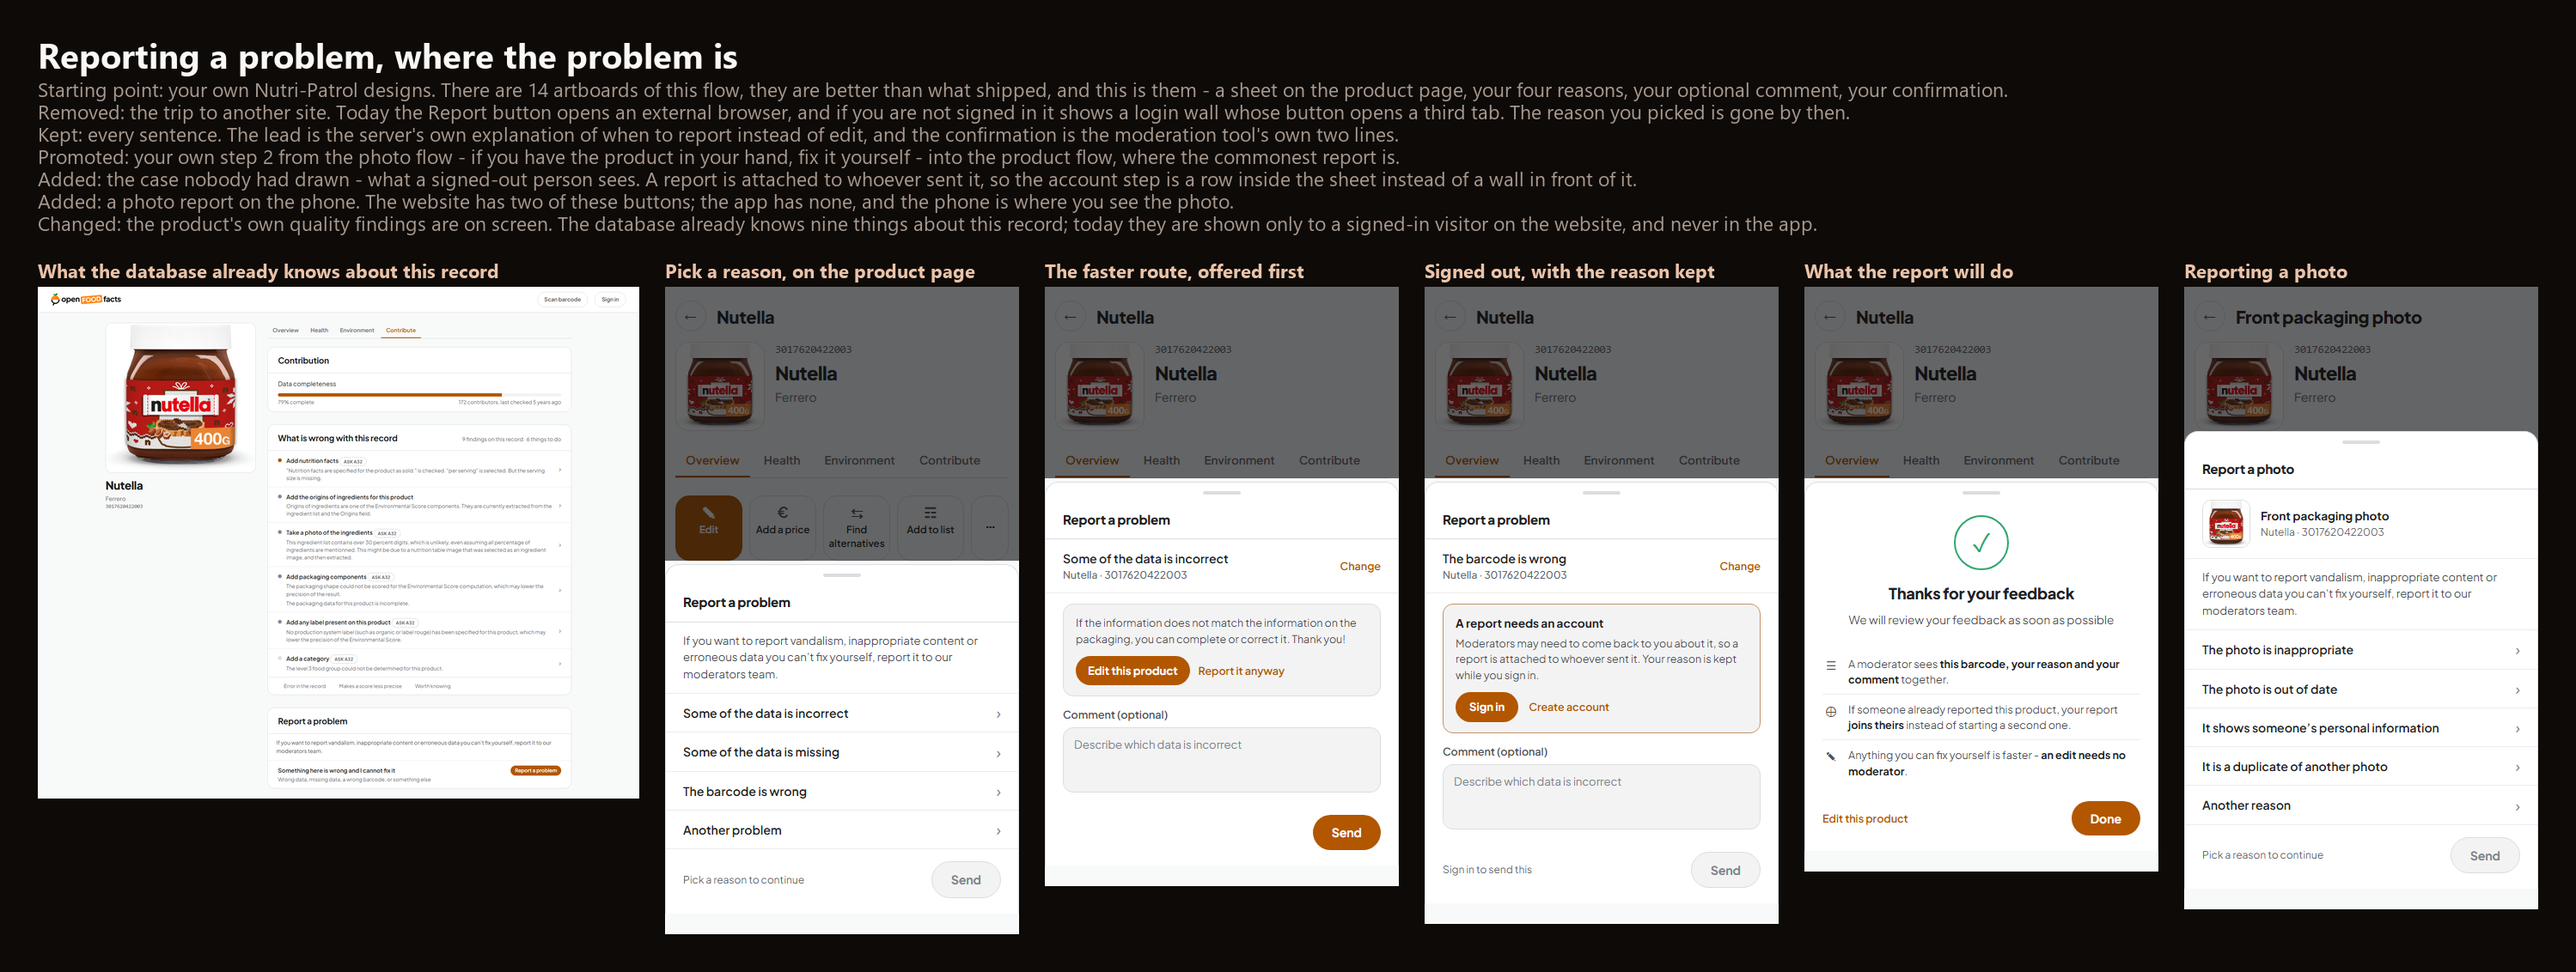
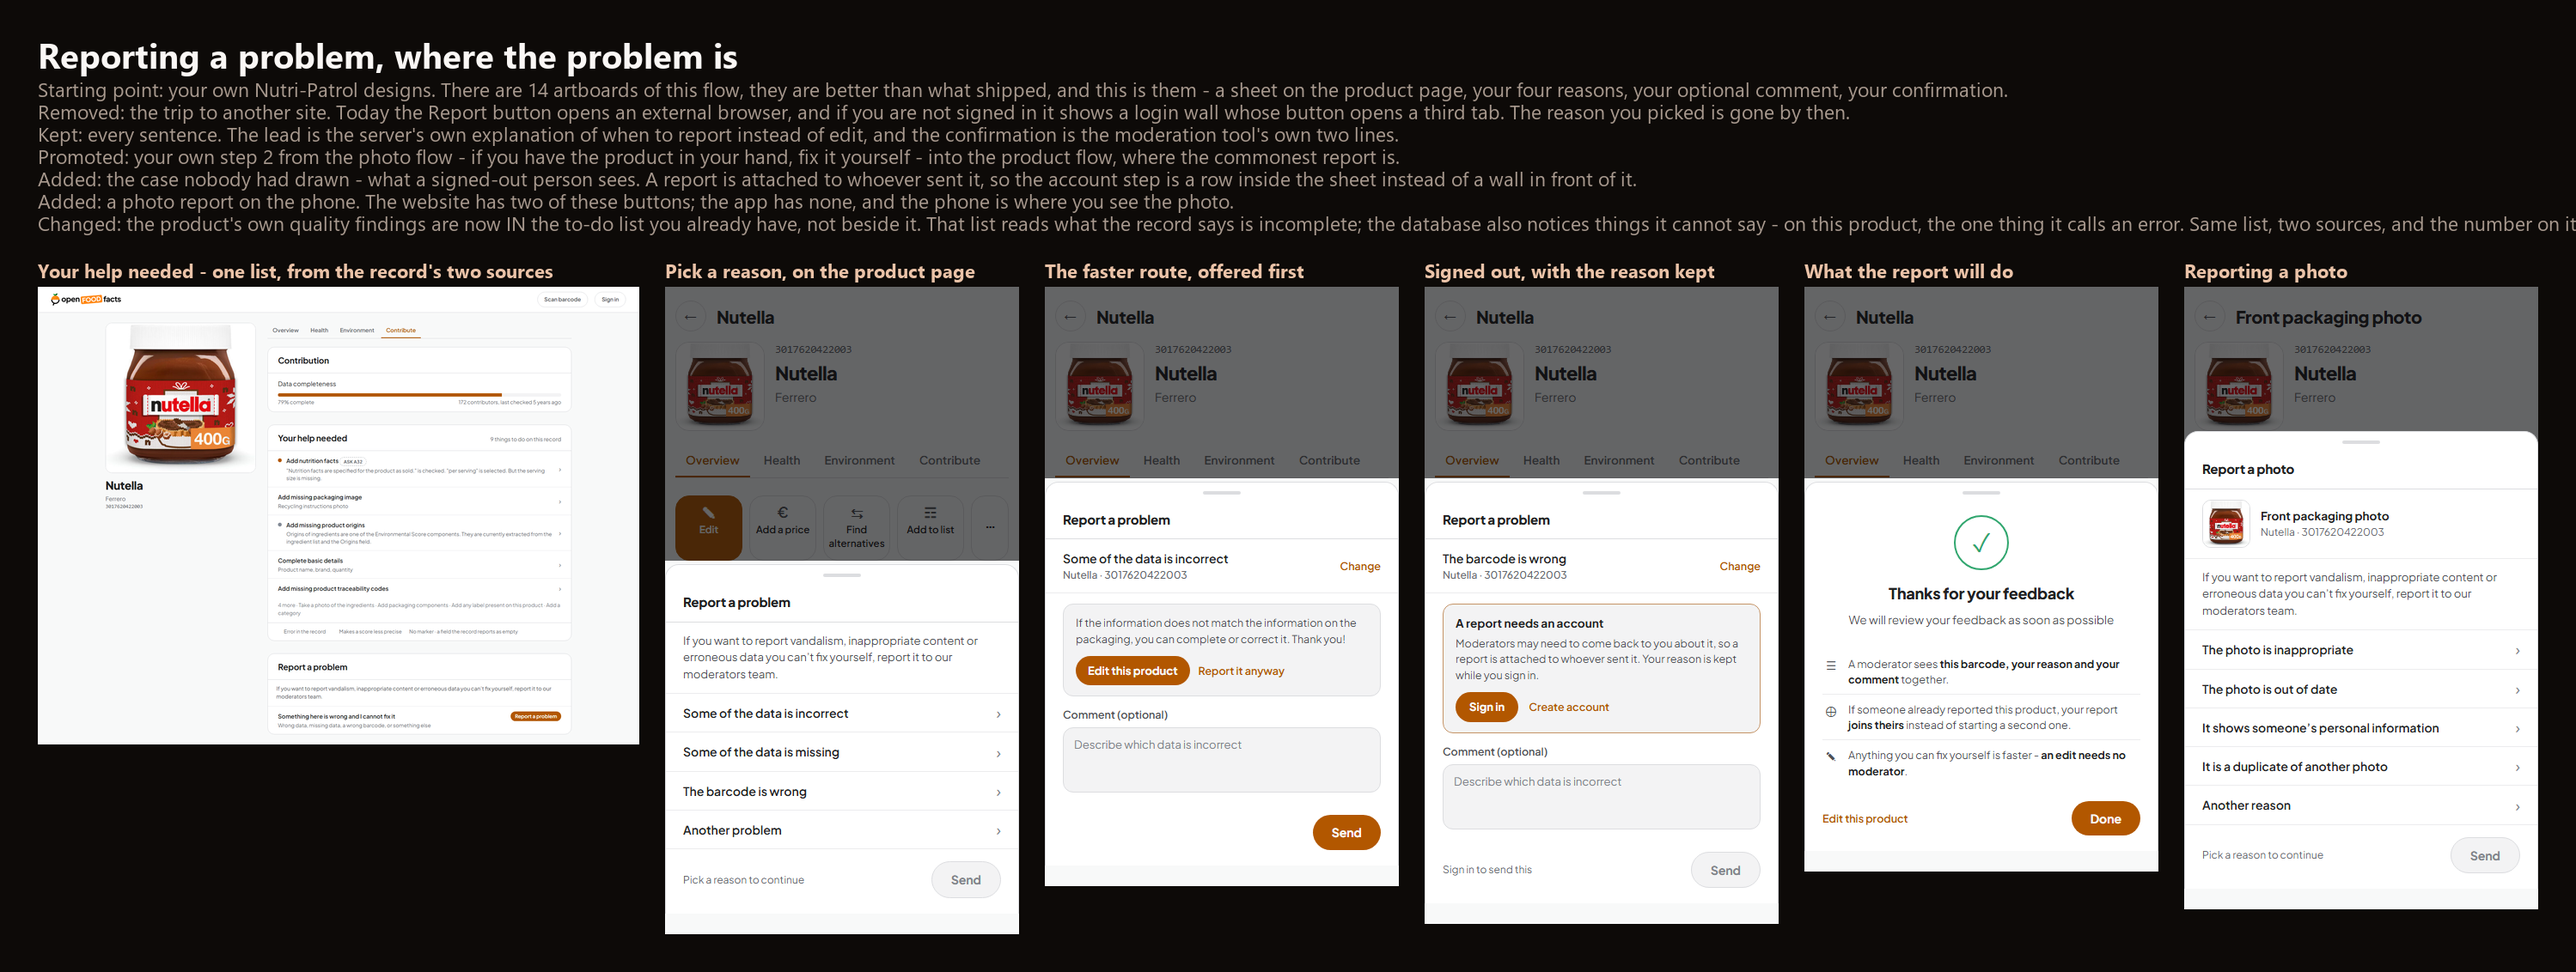
family 22 decisions A and B applied: a way in to the report sheet, and the record's quality findings merged into the to-do list that already existed

diff --git a/20-nutripatrol/quality-web.html b/20-nutripatrol/quality-web.html
@@ -44,9 +44,9 @@
 
       <div class="tile">
         <div class="qhd">
-          <h3>What is wrong with this record</h3>
+          <h3>Your help needed</h3>
           <span class="spacer"></span>
-          <span class="sub">9 findings on this record &middot; 6 things to do</span>
+          <span class="sub">9 things to do on this record</span>
         </div>
 
         <a class="qitem" href="../13-product-edit/edit-nutrition.html">
@@ -56,46 +56,36 @@
           <span class="go">&rsaquo;</span>
         </a>
 
+        <a class="qitem" href="../13-product-edit/edit-photos.html">
+          <span class="t"><b>Add missing packaging image</b>
+            <i>Recycling instructions photo</i></span>
+          <span class="go">&rsaquo;</span>
+        </a>
+
         <a class="qitem" href="../13-product-edit/edit-hub.html">
           <span class="m warn"></span>
-          <span class="t"><b>Add the origins of ingredients for this product</b>
+          <span class="t"><b>Add missing product origins</b>
             <i>Origins of ingredients are one of the Environmental Score components. They are currently extracted from the ingredient list and the Origins field.</i></span>
           <span class="go">&rsaquo;</span>
         </a>
 
-        <a class="qitem" href="../13-product-edit/edit-photos.html">
-          <span class="m warn"></span>
-          <span class="t"><b>Take a photo of the ingredients <span class="ask">ASK A32</span></b>
-            <i>This ingredient list contains over 30 percent digits, which is unlikely, even assuming all percentage of ingredients are mentionned. This might be due to a nutrition table image that was selected as an ingredient image, and then extracted.</i></span>
+        <a class="qitem" href="../13-product-edit/edit-hub.html">
+          <span class="t"><b>Complete basic details</b>
+            <i>Product name, brand, quantity</i></span>
           <span class="go">&rsaquo;</span>
         </a>
 
         <a class="qitem" href="../13-product-edit/edit-hub.html">
-          <span class="m warn"></span>
-          <span class="t"><b>Add packaging components <span class="ask">ASK A32</span></b>
-            <i>The packaging shape could not be scored for the Environmental Score computation, which may lower the precision of the result.</i>
-            <i>The packaging data for this product is incomplete.</i></span>
+          <span class="t"><b>Add missing product traceability codes</b></span>
           <span class="go">&rsaquo;</span>
         </a>
 
-        <a class="qitem" href="../13-product-edit/edit-hub.html">
-          <span class="m warn"></span>
-          <span class="t"><b>Add any label present on this product <span class="ask">ASK A32</span></b>
-            <i>No production system label (such as organic or label rouge) has been specified for this product, which may lower the precision of the Environmental Score.</i></span>
-          <span class="go">&rsaquo;</span>
-        </a>
-
-        <a class="qitem" href="../13-product-edit/edit-hub.html">
-          <span class="m info"></span>
-          <span class="t"><b>Add a category <span class="ask">ASK A32</span></b>
-            <i>The level 3 food group could not be determined for this product.</i></span>
-          <span class="go">&rsaquo;</span>
-        </a>
+        <div class="more">4 more &middot; Take a photo of the ingredients &middot; Add packaging components &middot; Add any label present on this product &middot; Add a category</div>
 
         <div class="qlegend">
           <span><i class="m err"></i> Error in the record</span>
           <span><i class="m warn"></i> Makes a score less precise</span>
-          <span><i class="m info"></i> Worth knowing</span>
+          <span>No marker &middot; a field the record reports as empty</span>
         </div>
       </div>
 

diff --git a/17-contribute/contribute-nutella.html b/17-contribute/contribute-nutella.html
@@ -82,28 +82,34 @@
         </div>
 
         <div class="grp">
-          <div class="lbl">Your help needed <em>6 of its 18 data states are open</em></div>
+          <div class="lbl">Your help needed <em>9 things to do on this record</em></div>
 
-          <a class="task" href="../13-product-edit/edit-photos.html">
+          <a class="task" href="../13-product-edit/edit-nutrition.html">
             <span class="num">1</span>
+            <span class="t"><b>Add nutrition facts</b> <i>Nutrition data per serving - Missing serving size</i></span>
+            <span class="time">&rsaquo;</span>
+          </a>
+          <a class="task" href="../13-product-edit/edit-photos.html">
+            <span class="num">2</span>
             <span class="t"><b>Add missing packaging image</b> <i>Recycling instructions photo</i></span>
             <span class="time">&rsaquo;</span>
           </a>
           <a class="task" href="../13-product-edit/edit-hub.html">
-            <span class="num">2</span>
+            <span class="num">3</span>
             <span class="t"><b>Add missing product origins</b></span>
             <span class="time">&rsaquo;</span>
           </a>
           <a class="task" href="../13-product-edit/edit-hub.html">
-            <span class="num">3</span>
+            <span class="num">4</span>
             <span class="t"><b>Complete basic details</b> <i>Product name, brand, quantity</i></span>
             <span class="time">&rsaquo;</span>
           </a>
           <a class="task" href="../13-product-edit/edit-hub.html">
-            <span class="num">4</span>
+            <span class="num">5</span>
             <span class="t"><b>Add missing product traceability codes</b></span>
             <span class="time">&rsaquo;</span>
           </a>
+          <div class="more">4 more &middot; Take a photo of the ingredients &middot; Add packaging components &middot; Add any label present on this product &middot; Add a category</div>
         </div>
 
         <div class="grp">

diff --git a/20-nutripatrol/mock.css b/20-nutripatrol/mock.css
@@ -124,6 +124,8 @@
 .qitem .t i { font-style: normal; display: block; font-size: 12.5px; color: var(--muted); line-height: 1.45; margin-top: 2px; }
 .qitem .t i + i { margin-top: 4px; }
 
+.tile > .more { color: var(--faint); font-size: 12.5px; line-height: 1.5; padding: 8px 24px 14px; }
+
 .ask { display: inline-flex; align-items: center; gap: 5px; border: 1px dashed var(--field-edge); border-radius: 999px; padding: 2px 9px; font-size: 10.5px; font-weight: 700; color: var(--muted); letter-spacing: .2px; vertical-align: middle; }
 
 .qlegend { display: flex; gap: 18px; padding: 12px 24px; border-top: 1px solid var(--line); font-size: 12px; color: var(--muted); }

diff --git a/17-contribute/contribute-toast.html b/17-contribute/contribute-toast.html
@@ -98,7 +98,8 @@
         </div>
 
         <div class="grp">
-          <div class="lbl">Your help needed <em>9 of its 13 data states are open</em></div>
+          
+          <div class="lbl">Your help needed <em>8 things to do on this record</em></div>
 
           <a class="task" href="../13-product-edit/edit-photos.html">
             <span class="num">1</span>
@@ -135,6 +136,7 @@
             <span class="t"><b>Add missing product traceability codes</b></span>
             <span class="time">&rsaquo;</span>
           </a>
+          <div class="more">1 more &middot; Add any label present on this product</div>
         </div>
 
         <div class="grp">

diff --git a/17-contribute/mock.css b/17-contribute/mock.css
@@ -11,6 +11,8 @@
 .grp > .lbl { color: var(--peach); font-size: 12.5px; font-weight: 700; letter-spacing: .3px; margin: 0 0 6px; }
 .grp > .lbl em { font-style: normal; color: var(--muted); font-weight: 500; letter-spacing: 0; }
 
+.grp > .more { color: var(--faint); font-size: 12.5px; line-height: 1.5; padding: 8px 0 2px; }
+
 .row { display: flex; align-items: center; gap: 12px; padding: 9px 0; border-bottom: 1px solid var(--line-soft); }
 .row .txt { flex: 1; min-width: 0; }
 .row .txt b { font-weight: 600; font-size: 14.5px; }

diff --git a/20-nutripatrol/report-web.html b/20-nutripatrol/report-web.html
@@ -34,9 +34,9 @@
         
         <div class="tile">
           <div class="qhd">
-            <h3>What is wrong with this record</h3>
+            <h3>Your help needed</h3>
             <span class="spacer"></span>
-            <span class="sub">9 findings on this record &middot; 6 things to do</span>
+            <span class="sub">9 things to do on this record</span>
           </div>
           <a class="qitem" href="../13-product-edit/edit-nutrition.html">
             <span class="m err"></span>
